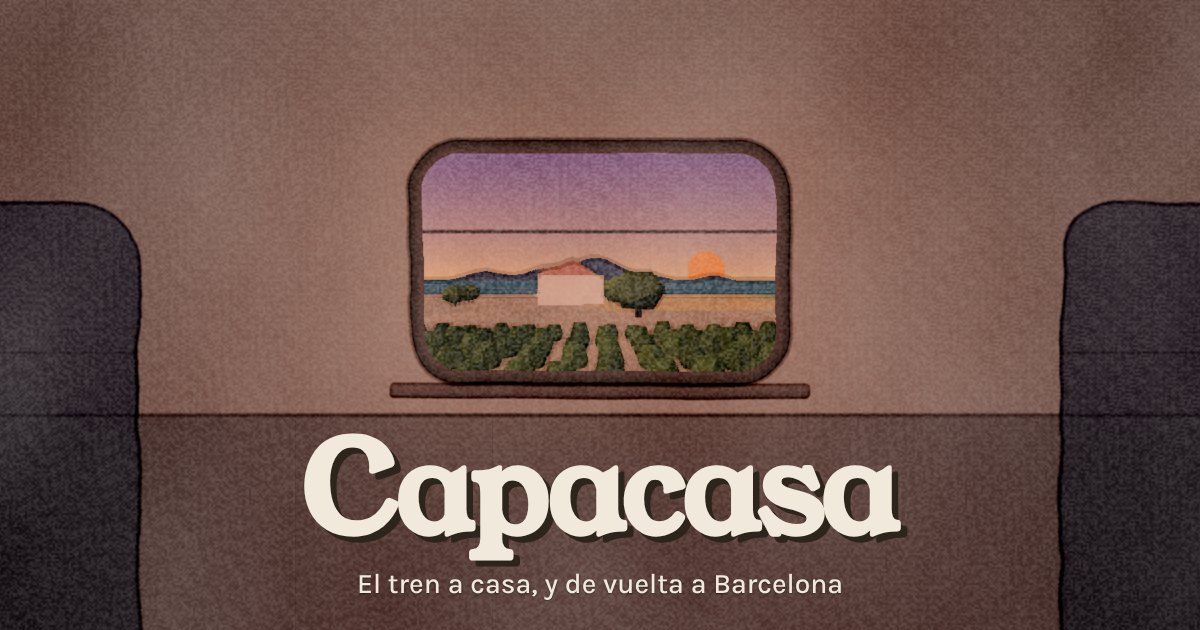
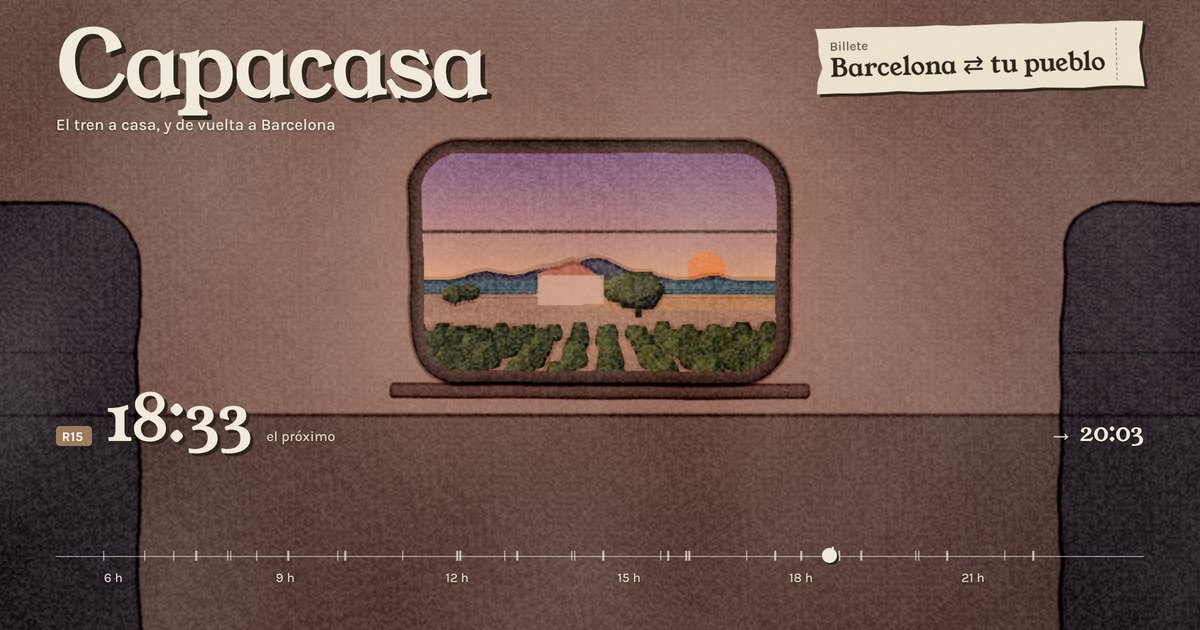
feat: show the ticket, a train and the day's ruler in the link preview
Àlex: without a timetable the preview looked like a site with no function.
The example row has no countdown, so it never goes stale in caches.

Claude-Session: https://claude.ai/code/session_01W2Xu3BXEC8iV8ePHfVdgH5

diff --git a/src/index.html b/src/index.html
@@ -17,7 +17,7 @@
 <meta property="og:image:type" content="image/jpeg">
 <meta property="og:image:width" content="1200">
 <meta property="og:image:height" content="630">
-<meta property="og:image:alt" content="Interior de un vagón pintado en acuarela, con el campo al atardecer en la ventanilla y el nombre Capacasa">
+<meta property="og:image:alt" content="Capacasa: interior de un vagón pintado en acuarela con el campo al atardecer en la ventanilla, un billete «Barcelona ⇄ tu pueblo» y el próximo tren, R15 18:33 → 20:03">
 <meta name="twitter:card" content="summary_large_image">
 <link rel="preconnect" href="https://fonts.googleapis.com">
 <link rel="preconnect" href="https://fonts.gstatic.com" crossorigin>

diff --git a/docs/plan.md b/docs/plan.md
@@ -139,4 +139,4 @@ Web de horarios de tren Barcelona Sants ↔ Reus cuyo fondo es un paisaje en acu
 | El tablero muestra 2 trayectos: el tren grande («el próximo», con su cuenta atrás) y el que sale después, regional o AVE («el siguiente»; «mañana» tras el último AVE). El AVE dice bajo su llegada «desde/hasta Camp de Tarragona». Por defecto el grande es el primero que sale, regional o AVE | 3 trayectos (2 regionales + el próximo AVE) con «Camp de Tarragona» en la columna del medio | Àlex (05-10): en móvil la pantalla rara vez se llena de texto; dos trayectos bastan, y la columna del medio dice cuál es cada uno; «el próximo» tiene que ser de verdad el primero que sale. La estación del AVE no desaparece para no mandar a nadie a la estación equivocada (pendiente de confirmar su sitio) |
 | En móvil, el AVE no muestra «desde/hasta Camp de Tarragona»: se oculta a la vista y lo sigue leyendo el lector de pantalla. En escritorio no cambia | Mantenerla bajo la llegada; las versiones mínimas A (sin etiquetas), B (un solo tren) y C (solo lo esencial) | Àlex (05-10): ese texto es lo que más sitio ocupa en móvil. Riesgo aceptado: la estación del AVE ya no se ve en el móvil; Renfe la muestra al comprar |
 | En móvil, el tren grande no dice «el próximo»: solo «en 13 min» (se oculta a la vista y lo sigue leyendo el lector de pantalla). Con una hora elegida en la regla, la columna del medio queda solo con «comprar ↗». En escritorio no cambia | Mantener «el próximo, en 13 min» en dos líneas | Àlex (05-10): basta con los minutos que faltan; el tamaño grande ya dice que es el próximo |
-| Imagen al compartir el enlace (`og:image`, 1200 × 630, `src/public/og.jpg`): el vagón al atardecer con la ventanilla en el centro y «Capacasa» con el subtítulo en cartel debajo, sin horarios. Sin título de pestaña vivo ni icono para la pantalla de inicio | B (billete «Barcelona ⇄ tu pueblo» de día) y C (cuatro ventanillas: amanecer, día, atardecer, noche); una captura con trenes reales; el título vivo y el icono pintado (fila 4 del benchmark) | Àlex (06-10), en el benchmark y la tarjeta de decisión. Sin horas porque LinkedIn guarda la vista previa días y la hora quedaría vieja; una sola imagen porque la dirección no lleva el pueblo |
+| Imagen al compartir el enlace (`og:image`, 1200 × 630, `src/public/og.jpg`): el hero real al atardecer con un billete genérico «Barcelona ⇄ tu pueblo», una fila de ejemplo «R15 18:33 el próximo → 20:03» y la regla del día; sin cuenta atrás, «comprar», segunda fila ni «ahora». Sin título de pestaña vivo ni icono para la pantalla de inicio | Solo vagón y nombre (A, elegida primero y cambiada); billete «Barcelona ⇄ tu pueblo» sin horario; cuatro ventanillas por la luz; el hero tal cual con «en 13 min»; la línea de paradas como «línea del tren»; el título vivo y el icono pintado (fila 4 del benchmark) | Àlex (06-10): sin horario parece una web sin ninguna funcionalidad. La fila es un ejemplo que no caduca (sin «en X min», que LinkedIn dejaría viejo en su caché); una sola imagen porque la dirección no lleva el pueblo |

diff --git a/docs/handoff.md b/docs/handoff.md
@@ -14,7 +14,7 @@ Todo el contexto necesario está en este repositorio. Decisiones: `docs/plan.md`
 
 **Enlace de compra (05-10, hecho):** el tren grande del tablero enlaza a Renfe: su hora (punteada) y «comprar ↗» abren en otra pestaña `venta.renfe.com/vol/buscarTren.do` con origen, destino y día (`src/buy.ts`, único sitio que conoce la URL). Los códigos de Renfe son los stop_id del GTFS (`0071,<id>,<id>`; todas las estaciones de `red.json` están en la lista de Renfe). Renfe no deja preseleccionar el tren: abre la lista del día. Trenes que salen pasadas las 24:00 buscan el día siguiente. Check 15 lo comprueba (`buy_link`).
 
-**Imagen al compartir (06-10, hecho):** `src/index.html` lleva `description`, Open Graph y `twitter:card=summary_large_image`; la imagen es `src/public/og.jpg` (1200 × 630, 137 kB): el vagón al atardecer con «Capacasa» y el subtítulo en cartel bajo la ventanilla, sin horarios (opción A; maquetas y notas en `propuestas-compartir/` de los archivos del proyecto). Se generó con Playwright sobre la web compilada (paisaje a 2×, sin tablero ni billete) y una capa HTML con el nombre. Check 17 (`python3 scripts/check.py compartir`). El título de pestaña vivo y el icono de pantalla de inicio se descartaron (fila 4 del benchmark, «No»). **Falta verificarla en producción** tras fusionar: las URL de prueba de Vercel piden sesión y los robots no entran. LinkedIn: Post Inspector (linkedin.com/post-inspector, también refresca su caché). X: su validador ya no enseña vista previa; pegar el enlace en un post sin publicar. WhatsApp/iMessage: pegarlo en un chat con uno mismo.
+**Imagen al compartir (06-10, hecho):** `src/index.html` lleva `description`, Open Graph y `twitter:card=summary_large_image`; la imagen es `src/public/og.jpg` (1200 × 630): el hero real al atardecer con el billete genérico «Barcelona ⇄ tu pueblo», una sola fila de ejemplo «R15 18:33 el próximo → 20:03» y la regla, sin cuenta atrás ni «ahora» para que no caduque (maquetas y notas en `propuestas-compartir/` de los archivos del proyecto). Se generó con Playwright sobre la web compilada a 2× (martes 06-10, 18:20, Sants → Reus) con CSS inyectado que cambia el texto del billete y oculta la segunda fila, la cuenta atrás, «comprar» y «ahora». Check 17 (`python3 scripts/check.py compartir`). El título de pestaña vivo y el icono de pantalla de inicio se descartaron (fila 4 del benchmark, «No»). **Falta verificarla en producción** tras fusionar: las URL de prueba de Vercel piden sesión y los robots no entran. LinkedIn: Post Inspector (linkedin.com/post-inspector, también refresca su caché). X: su validador ya no enseña vista previa; pegar el enlace en un post sin publicar. WhatsApp/iMessage: pegarlo en un chat con uno mismo.
 
 **Apertura en el hero (02-10, comprobado el 05-10 en Chromium escritorio y móvil):** `history.scrollRestoration = 'manual'` y, si la dirección trae un ancla (`#repisa`), se quita al arrancar y la página vuelve arriba; «Qué es y cómo se hizo» baja a la mesa sin escribir el ancla (`src/main.ts`, `36a9ebd`/`340b1cf`/`2a5815f`). Falta confirmarlo en Safari de iOS.
 
